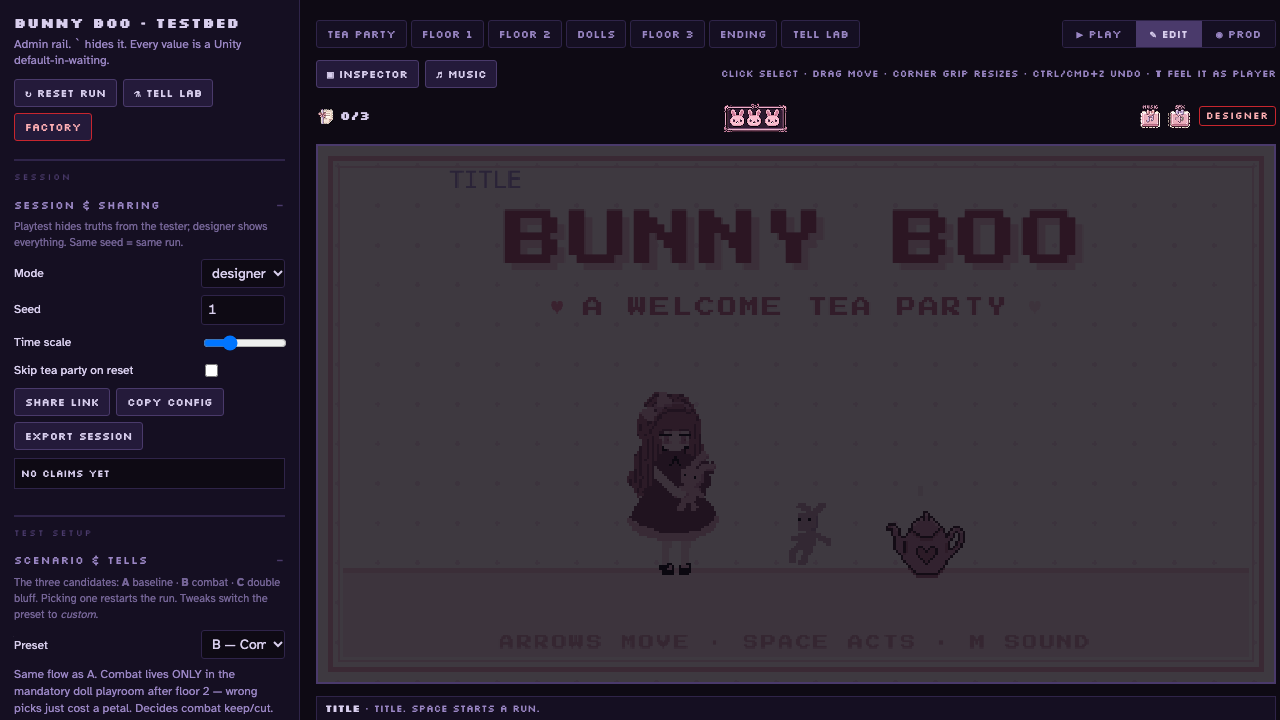
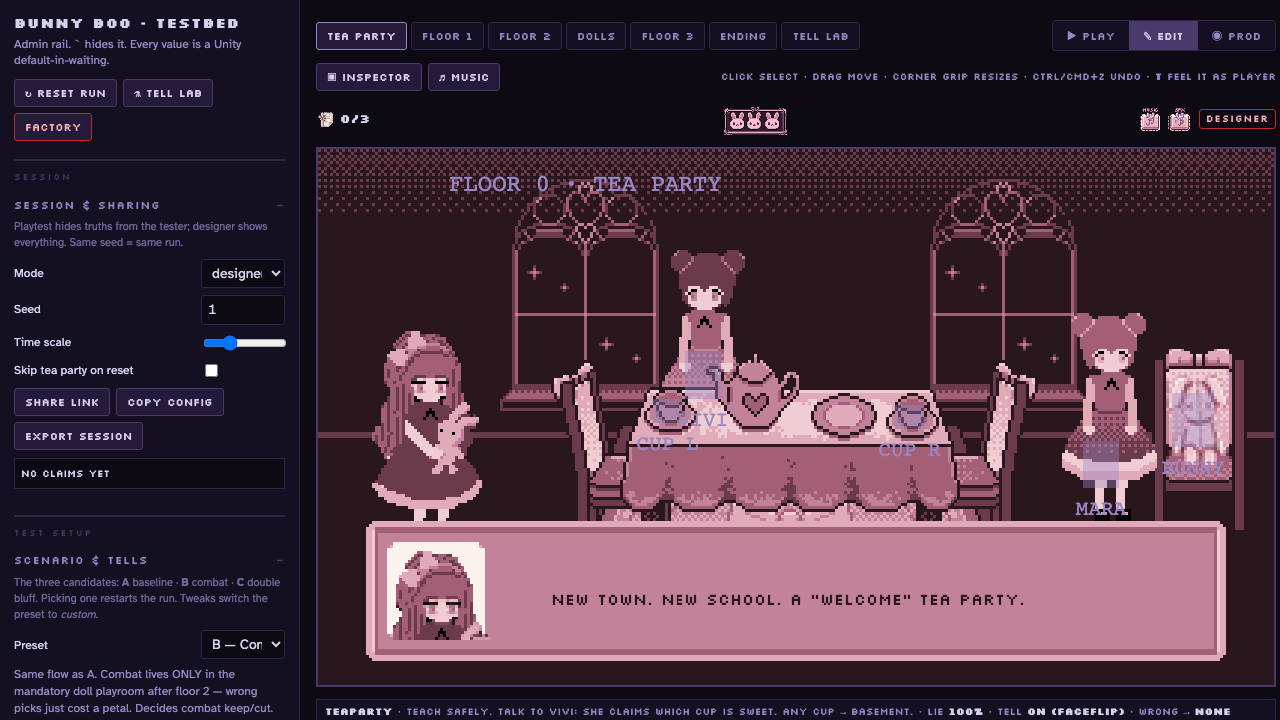
Web-editor slide: live link + click-to-toggle inspector state
- Both editor states captured from the live build via Playwright
  (tea party room, and VIVI selected with the floating Inspector)
- Clicking the screenshot toggles select/deselect to show the
  click-select transition, with state-aware callouts
- Prominent OPEN LIVE link to bbpt-mock/?mode=designer

diff --git a/index.html b/index.html
@@ -272,6 +272,9 @@
   .note.g{background:#2ea04f}
   .note.b{background:#2667c9}
   .note.p{background:#c2447e}
+  .shotwrap .note.s2{display:none}
+  .shotwrap.alt2 .note.s1{display:none}
+  .shotwrap.alt2 .note.s2{display:block}
 
   /* test terminal */
   .term{
@@ -679,16 +682,18 @@
 </section>
 
 <!-- 18 · THE WEB EDITOR -->
-<section class="slide" data-notes="One index.html — a full in-browser editor. Admin rail on the left (backtick hides it), floors as tabs, click-select and drag with snap grid, floating inspector, and T flips straight into playtest. DEMO MOMENT: open the live build in designer mode — drag a chest, T to play, T back, SHARE LINK.">
+<section class="slide" data-notes="One index.html — a full in-browser editor. Admin rail on the left (backtick hides it), floors as tabs, click-select and drag with snap grid, and T flips straight into playtest. CLICK THE SCREENSHOT: it toggles to VIVI selected with the floating Inspector open — the click-select transition. DEMO MOMENT: hit OPEN LIVE, drag a chest, T to play, T back, SHARE LINK.">
   <span class="kicker blue">04 · Bunny Boo · one index.html</span>
-  <div class="shotwrap">
+  <div class="shotwrap" style="cursor:pointer" onclick="this.classList.toggle('alt2');var m=this.querySelector('img');m.src=this.classList.contains('alt2')?'assets/web-editor-2.png':'assets/web-editor.png'" title="Click: select VIVI ⇄ back">
     <div class="shot"><img src="assets/web-editor.png" alt="Bunny Boo web editor in designer mode"></div>
-    <span class="note" style="left:2%;top:40%">⬅ ADMIN RAIL (`)</span>
-    <span class="note g" style="left:30%;top:-2%">FLOORS AS TABS ⬆</span>
-    <span class="note b" style="left:24%;top:13%">⬅ FLOATING INSPECTOR</span>
-    <span class="note p" style="right:1%;top:11%">T = FEEL IT AS PLAYER ⬆</span>
-    <span class="note" style="left:44%;top:72%">DRAG · SNAP GRID · ⌘Z</span>
+    <span class="note s1" style="left:2%;top:40%">⬅ ADMIN RAIL (`)</span>
+    <span class="note s1 g" style="left:61%;top:0%">⬅ FLOORS AS TABS</span>
+    <span class="note s1 p" style="right:1%;top:11%">T = FEEL IT AS PLAYER ⬆</span>
+    <span class="note s1 b" style="left:38%;top:80%">🖱 CLICK ME: SELECT AN OBJECT</span>
+    <span class="note s2 g" style="right:24%;top:14%">CLICK-SELECT → INSPECTOR OPENS ➡</span>
+    <span class="note s2 b" style="left:38%;top:80%">🖱 CLICK AGAIN: DESELECT</span>
   </div>
+  <p class="caption" style="font-size:19px"><a class="mono" href="https://yana205.github.io/bbpt-mock/?mode=designer" target="_blank" rel="noopener">▶ OPEN LIVE: yana205.github.io/bbpt-mock/?mode=designer</a></p>
 </section>
 
 <!-- 19 · WEB PROTOTYPING -->
